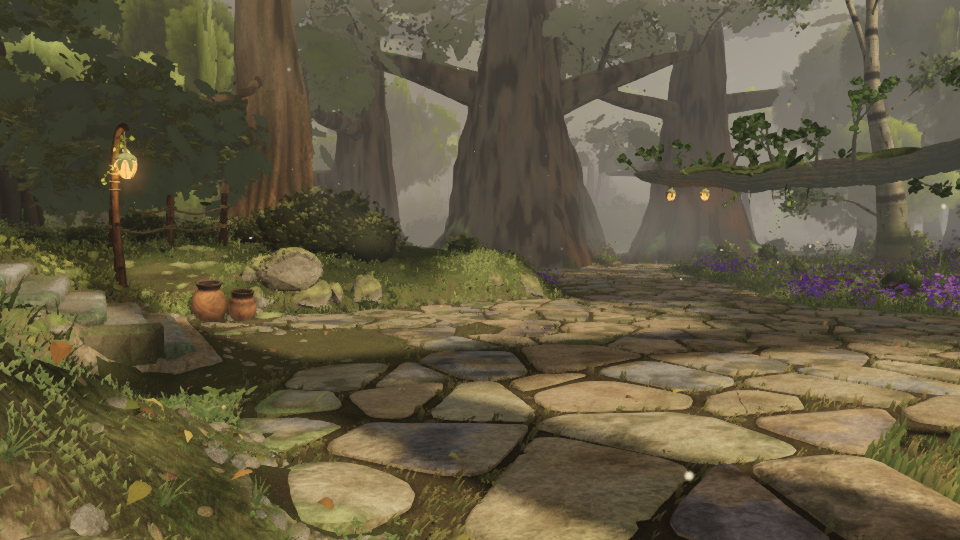
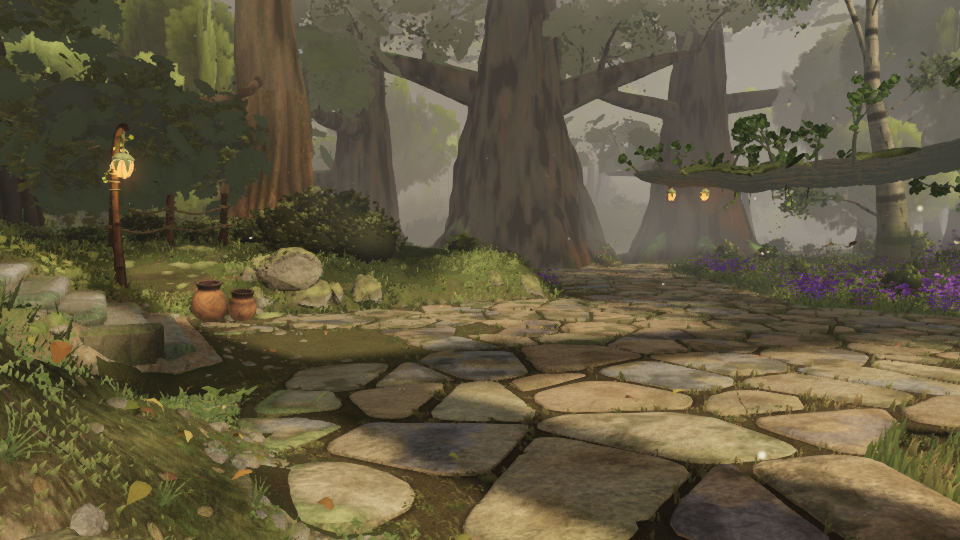
squad2 roofhole: camera C measured - 0.55 % of the frame, all of it the top row
C is the only fixed camera that looks south, so the south bands' risk was its. Rendered as a pair against
the head: mean 89.4 -> 89.3, top third 87.5 -> 87.1, 0.55 % of the frame changed and every changed cell in
the top row (y 0-0.13, mean delta 22 levels) - two small canopy patches at the very top edge, with the
lantern post, the paving, the pots, the giants and the foliage untouched. That is what HERO_TOP_KEEP
promises and what roof.test.mjs pins, now measured on the camera with the most to lose.

diff --git a/art/environment/squad2-2026-09-23/roofhole/README.md b/art/environment/squad2-2026-09-23/roofhole/README.md
@@ -145,11 +145,20 @@ band — the next measurement, not a claim.
 **Cost:** the roof is now 814 clumps / 3588 cards / **7176 triangles**, so the whole of this branch's roof
 work adds about **1,290 triangles** over the head — 0.014 % of the 9 M cap.
 
-**Camera C** is the only fixed camera that looks south (fable-3's note), so it is the one that can see these
-bands. Its after frame is `hero-C-after.png`; its before was not rendered in this hour, and what bounds the
-risk meanwhile is the test: no clump centre may sit below the kept top band inside any hero frame within its
-drop distance, so C's frame body cannot have gained roof by construction, only its top 18 %. Rendering C's
-pair is the first thing for the next hour.
+**Camera C**, the only fixed camera that looks south (fable-3's note), is therefore the one that can see
+these bands — and it is the cleanest answer of the six. Rendered as a pair, the branch against the head:
+mean 89.4 → 89.3, top third 87.5 → 87.1, and **0.55 % of the frame changed with every changed cell in the
+top row** (y 0–0.13, mean Δ 22 levels). `hero-C-diff.jpg` shows two small canopy patches at the very top
+edge and nothing else: the lantern post, the paving, the pots, the giants and the foliage are untouched.
+That is exactly what `HERO_TOP_KEEP` promises and what the test now pins, measured on the camera with the
+most to lose.
+
+| frame | changed > 8 levels | where |
+| --- | --- | --- |
+| A | 10.58 % | the plaza's vegetation, re-dappled by the new roof's shadow |
+| C | **0.55 %** | the top row only — the two patches in `hero-C-diff.jpg` |
+| D | 9.58 % | as A |
+| F | 0.00 % | — |
 
 ## The test
 
